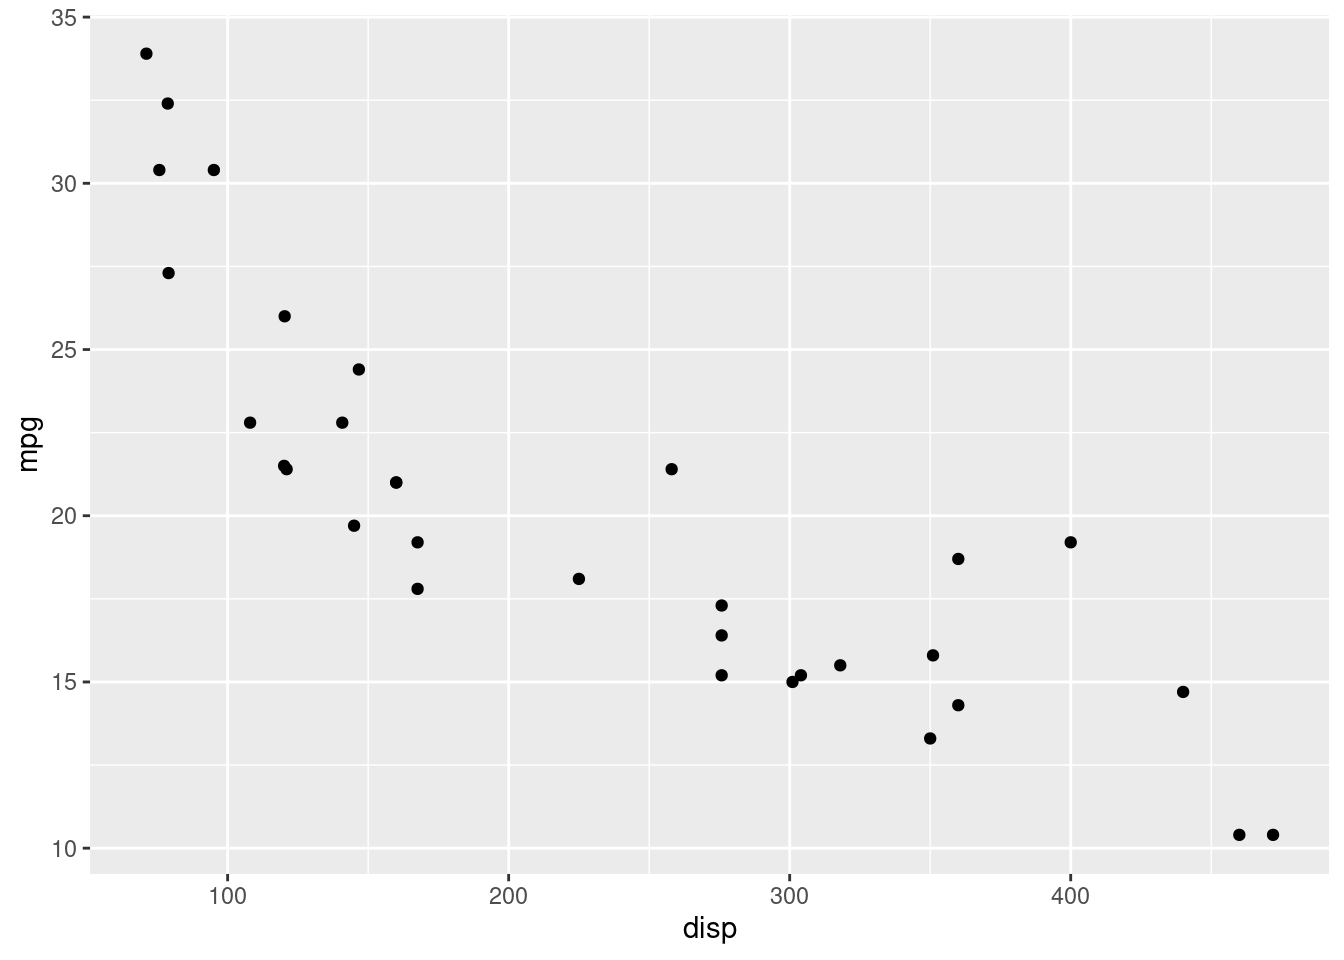
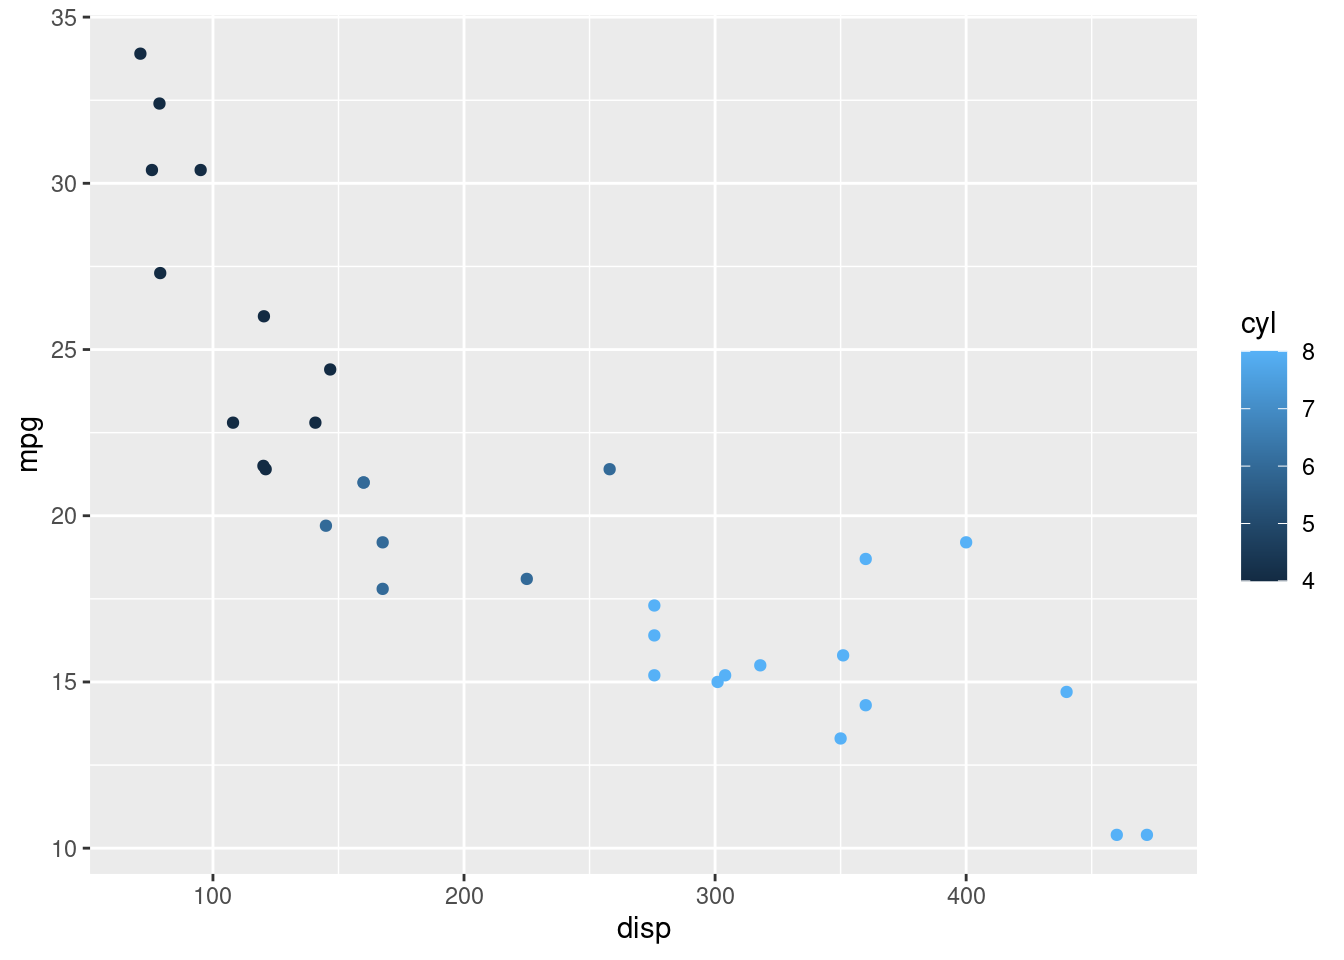
Built site for gh-pages

diff --git a/index.html b/index.html
@@ -175,7 +175,7 @@ pre > code.sourceCode > span > a:first-child::before { text-decoration: underlin
 </div>
 <div class="sourceCode cell-code" id="cb3"><pre class="sourceCode r code-with-copy"><code class="sourceCode r"><span id="cb3-1"><a href="#cb3-1" aria-hidden="true" tabindex="-1"></a><span class="fu">library</span>(rsconnect)</span>
 <span id="cb3-2"><a href="#cb3-2" aria-hidden="true" tabindex="-1"></a>mtcars <span class="sc">%&gt;%</span></span>
-<span id="cb3-3"><a href="#cb3-3" aria-hidden="true" tabindex="-1"></a>  <span class="fu">ggplot</span>(<span class="fu">aes</span>(<span class="at">x =</span> disp, <span class="at">y =</span> mpg)) <span class="sc">+</span></span>
+<span id="cb3-3"><a href="#cb3-3" aria-hidden="true" tabindex="-1"></a>  <span class="fu">ggplot</span>(<span class="fu">aes</span>(<span class="at">x =</span> disp, <span class="at">y =</span> mpg, <span class="at">color =</span> cyl)) <span class="sc">+</span></span>
 <span id="cb3-4"><a href="#cb3-4" aria-hidden="true" tabindex="-1"></a>  <span class="fu">geom_point</span>()</span></code><button title="Copy to Clipboard" class="code-copy-button"><i class="bi"></i></button></pre></div>
 <div class="cell-output-display">
 <p><img src="index_files/figure-html/unnamed-chunk-1-1.png" class="img-fluid" width="672"></p>
